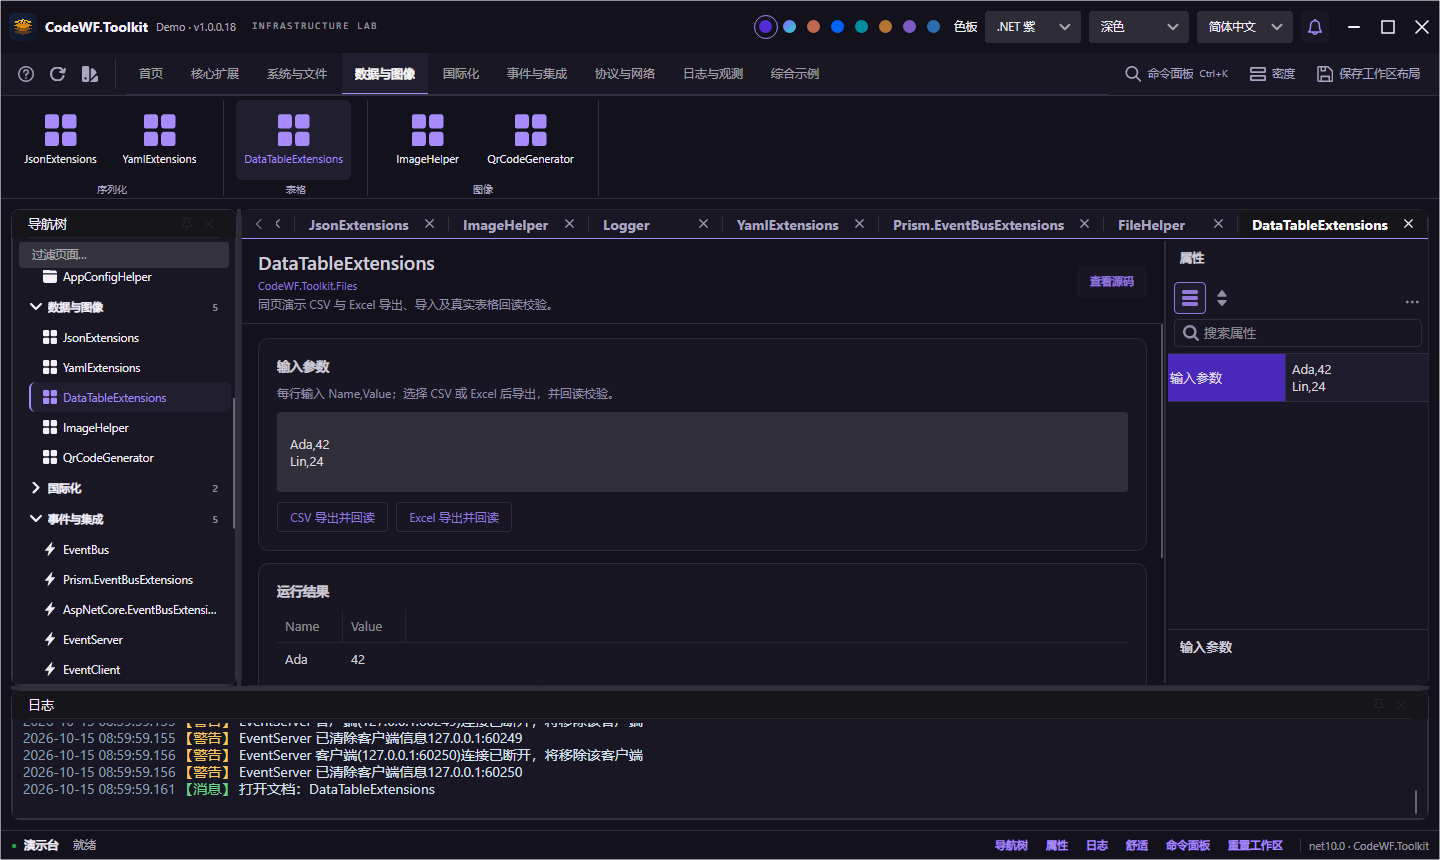
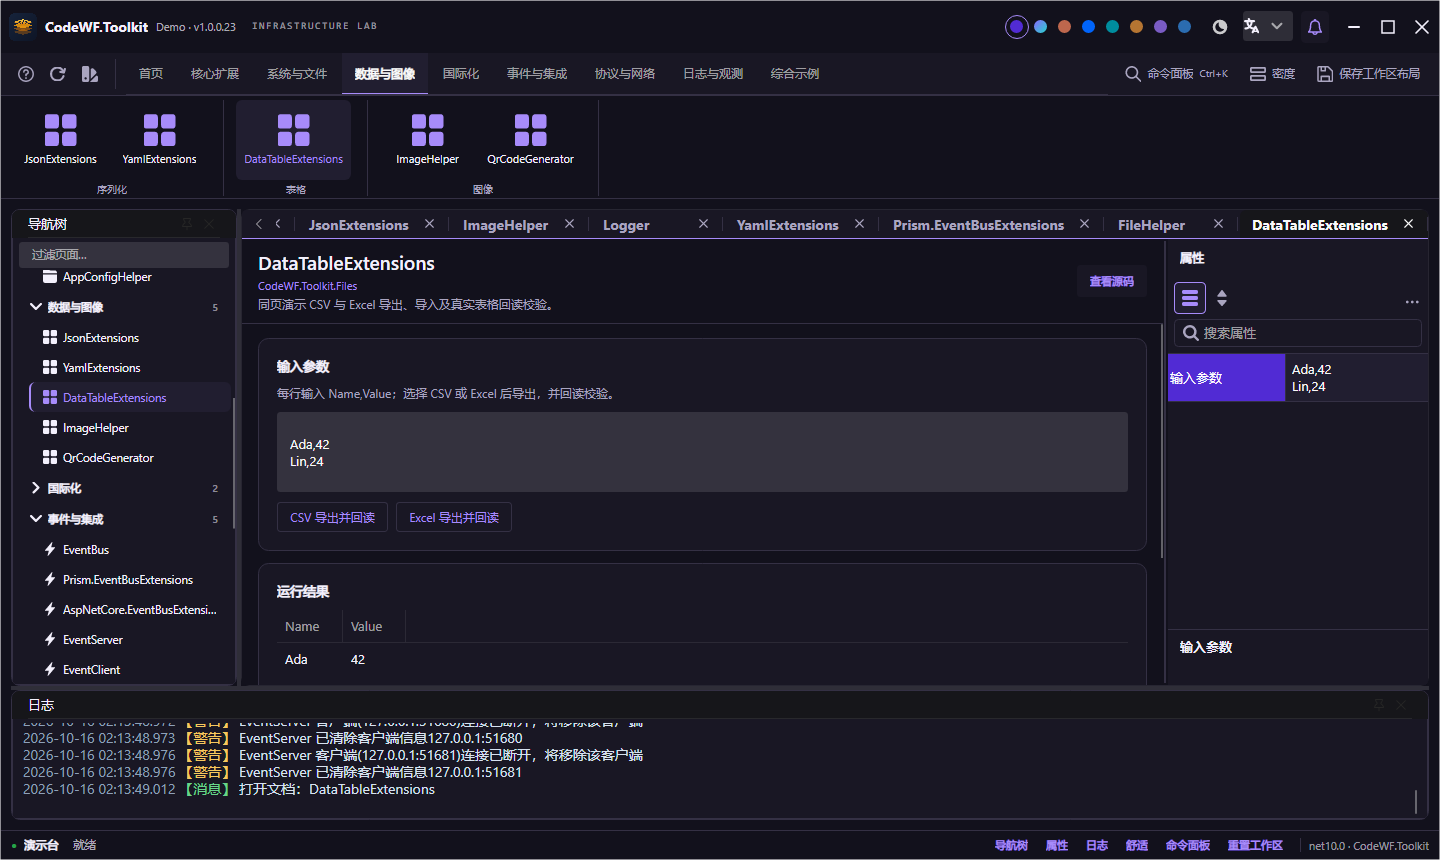
文档：同步当前帮助类演示截图与主题巡览

diff --git a/docs/NativeDemo.md b/docs/NativeDemo.md
@@ -7,7 +7,7 @@
 - 每个演示是一个 Dock Document；内部使用 `Grid + GridSplitter` 放置内容和属性面板。分屏、浮动、重新停靠时使用 Dock 官方内容回收模板，保留同一份视图、参数和属性状态。
 - 文档组位于独立且不可折叠的中央比例容器内。文档分屏后再浮动，不会把导航区一起归一化；回归同时检查默认份额和手动调整后的份额及实际宽度。
 - 首屏聚焦真实功能、输入和结果，源码按需展开；介绍页提供全局设置，其他页面仅显示自身参数。
-- Ribbon 组只显示标题；主命令图标 32×32，快捷图标 18×18、点击热区 30×30。密集分组双行排列，窄窗口可以横向滚动。
+- Ribbon 组只显示标题；主命令图标 32×32，快捷图标 16×16、点击热区 30×30。密集分组双行排列，窄窗口可以横向滚动。
 - 属性面板使用 Semi 图标，搜索独占下一行。名称列默认 118px、行高 31px；横竖分隔线支持拖动调整列宽和行高。文本、数值、下拉编辑器铺满值单元格，默认无边框；下拉文本左对齐。
 
 ## 外观与国际化
@@ -37,6 +37,8 @@ pwsh scripts/publish_toolkit_demo.ps1 -RuntimeIdentifier win-x64
 Windows 本机执行仓库发布脚本，再运行 NativeAOT 验证器并制作 EXE 安装包。发布工作流分别在对应平台生成 win-x64、linux-x64、linux-arm64、osx-x64、osx-arm64 的 EXE / DEB / DMG 和 SHA-256；不提供便携压缩包。
 
 交付原型为 `design/` 下自包含单 HTML，内嵌全部运行资源，可复制到空目录离线交互。审计实际点击全部路由、色点、三态按钮和语言菜单；窗口框架支持最小化、最大化、关闭与恢复。
+
+README 的 PNG / GIF 已于 2026-10-16 更新为 `1.0.0.23`：普通页面从当前真实控件经 Skia 离屏采集，浮动与回停截图来自正式 NativeAOT UI 验证器。主题巡览使用当前页面截图，JSON、表格与文件系统截图保留实际运行结果；不再展示旧版本的标题栏下拉框。
 
 ## 验收边界
 
